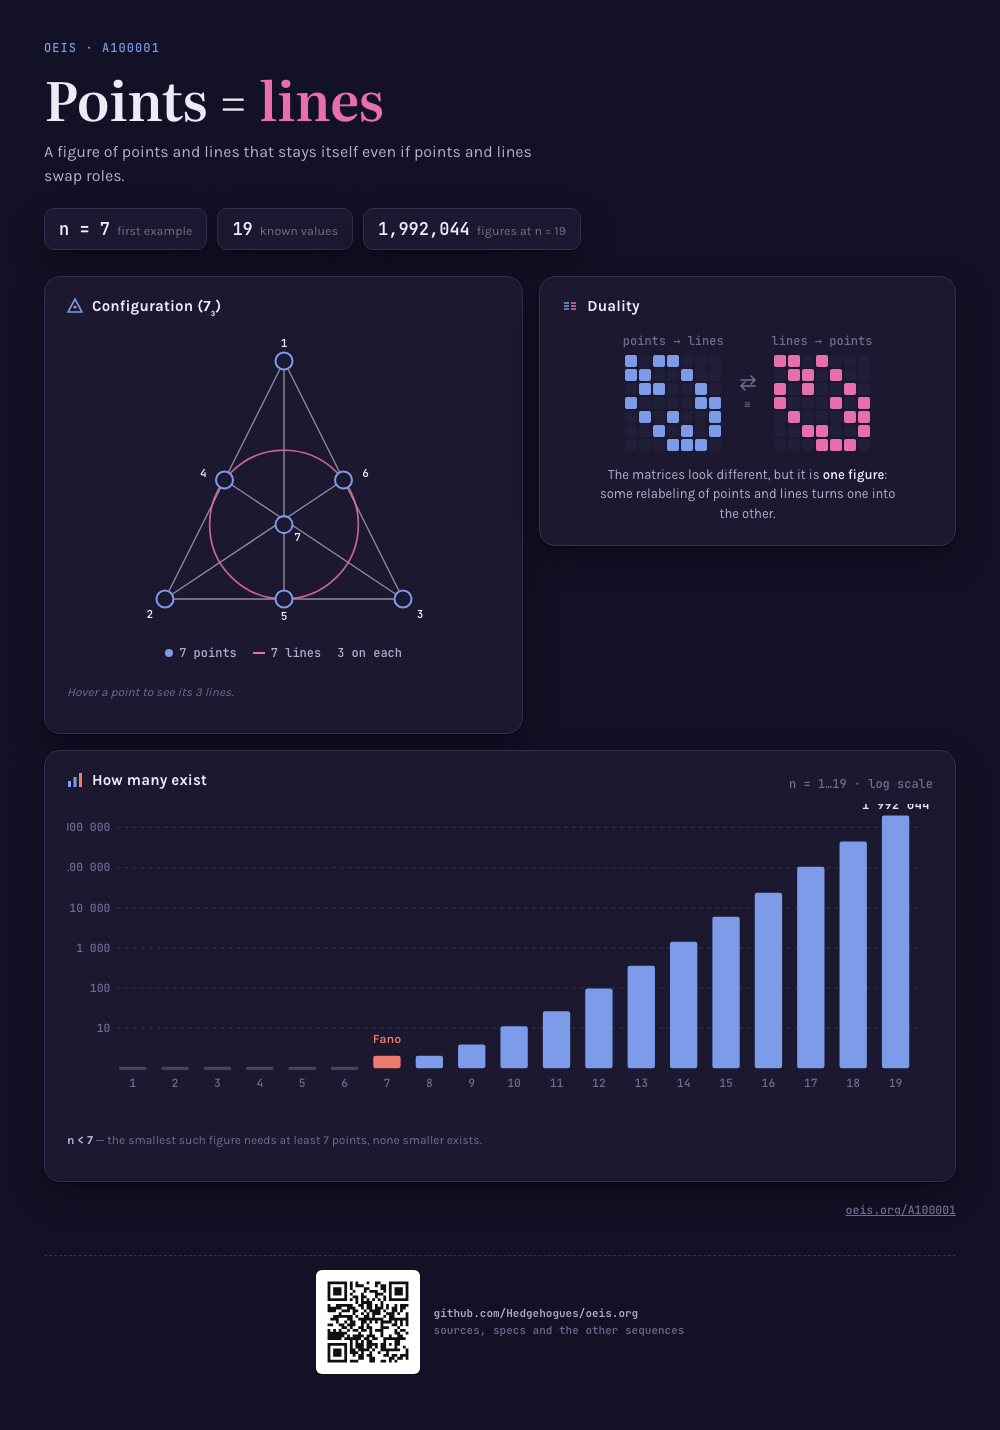
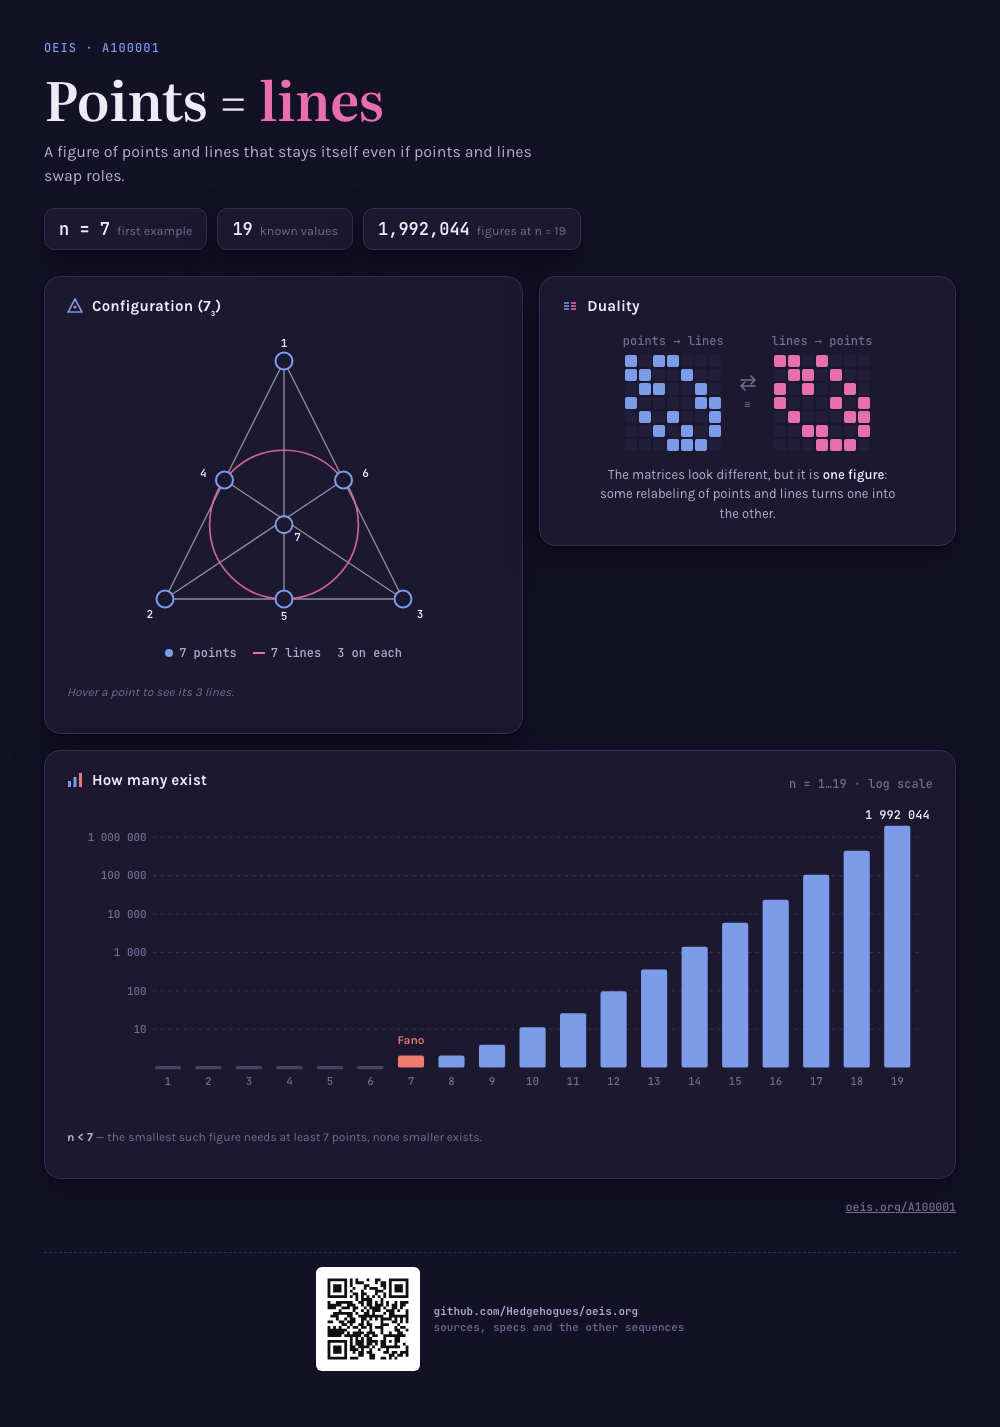
Fix A100001's clipped chart labels; add principle 18 + verify/svg-bounds.mjs
Auditing every currently published picture in the repo found one real, previously unnoticed
defect: A100001's "How many exist" log-scale bar chart clipped its topmost axis label
("1 000 000" read as "000 000") and its topmost value callout ("1 992 044" read as garbled
digits) against the SVG's own viewBox -- present in every capture of this page since it was
built, including the one already committed. Confirmed by patching the label position in a
live page and comparing screenshots; the source coordinates alone (y="4", x="38") look
ordinary and gave no hint.

- Widened #growth's viewBox ("0 0 760 268" -> "-35 -10 795 278") to reveal the existing
  coordinates rather than moving the labels further from the edges they were clipped against.
- memory-bank/verify/svg-bounds.mjs: renders each page and measures every <text> element's
  real rendered bounding box against its SVG's own box; verified it reproduces the original
  failure when the viewBox revert is reapplied.
- Documented as principle 18, wired into verify/all.mjs.

diff --git a/memory-bank/visualizations/A100001/viz.html b/memory-bank/visualizations/A100001/viz.html
@@ -415,7 +415,7 @@
         <div class="hint">n = 1…19 · log scale</div>
       </div>
       <div class="chart-scroll">
-        <svg id="growth" viewBox="0 0 760 268">
+        <svg id="growth" viewBox="-35 -10 795 278">
           <!-- reference gridlines -->
           <line class="grid-line" x1="44" y1="196.75" x2="750" y2="196.75"/><text class="grid-label" x="38" y="200" text-anchor="end">10</text>
           <line class="grid-line" x1="44" y1="161.5" x2="750" y2="161.5"/><text class="grid-label" x="38" y="165" text-anchor="end">100</text>

diff --git a/.claude/rules/visualization-principles.md b/.claude/rules/visualization-principles.md
@@ -292,11 +292,34 @@ by memory, not by a check" gap principle 9's own history already names, just nev
   measured them. `A000001` and `A000003` each had one legend over the limit too (28 and 47 words),
   found only because the same check ran against every page, not just the one being edited.
 
+## 18. An SVG's own viewBox needs margin for text, not just for the shapes
+
+An SVG's outermost element clips anything outside its `viewBox` by default. A bar's rectangle is
+usually sized well inside that box on purpose, so nobody notices the box itself has zero margin —
+until a text label sits close enough to an edge that its font ascender, or the width of a
+`text-anchor="end"` string, crosses that edge. Nothing about this shows up by reading the
+coordinates: `y="4"` and `x="38"` both look like ordinary, small, reasonable numbers on their own.
+
+- MUST: a `viewBox` used for any chart carrying `<text>` includes enough margin on every edge a
+  label can approach — sized from the actual rendered font metrics and string width, not guessed.
+- MUST NOT: fix a clipped label by moving the text further from the edge it's clipped against —
+  that only shrinks the chart's usable plotting area for the same reason the original margin was
+  missing. Widen the `viewBox` itself (expand it around the existing coordinates, which are
+  otherwise untouched) so the plotted content keeps its position and scale.
+- Precedent: `A100001`'s `#growth` log-scale bar chart (`viewBox="0 0 760 268"`) placed its topmost
+  value label at `y="4"` and its axis labels at `x="38"` with `text-anchor="end"` — both look
+  ordinary in the source. Rendered, the value label's ascender and roughly half of the widest axis
+  label ("1 000 000") fell outside the box and were silently cut, on every capture of this page
+  since it was built, including the one already committed. Found only by patching the label's `y`
+  in a live page and comparing screenshots by eye — nothing else in this catalog renders a page and
+  measures real layout. Fixed by widening the `viewBox` to `"-35 -10 795 278"`, which reveals the
+  same coordinates rather than moving them.
+
 Trigger: any request to explain an OEIS sequence with a picture — a new device record, a
 per-sequence page, an edit to an existing visualization; an invocation of the `explain-sequence`
 skill; adding or editing any `[device::*]` record.
 Mechanization: `node memory-bank/verify/all.mjs` exits non-zero on a violation of principles 9, 11,
-14, 15, 16 and 17, and every one of those checks was proved by reintroducing the exact fault it
+14, 15, 16, 17 and 18, and every one of those checks was proved by reintroducing the exact fault it
 exists for rather than merely written:
 
 | # | check | the fault it was tested against |
@@ -307,6 +330,7 @@ exists for rather than merely written:
 | 15 | `verify/pages.mjs` | restoring the old teal accent and a different page ground |
 | 16 | `verify/qr.mjs` | re-theming the QR and shrinking it, then re-capturing |
 | 17 | `verify/captions.mjs` | a legend or step caption growing past its word budget, page over page, unnoticed |
+| 18 | `verify/svg-bounds.mjs` | restoring `A100001`'s original `viewBox`, which silently clips its topmost axis and value labels again |
 
 The rest stay judgement calls, and saying so is the point of listing them: principles 1, 2, 7 and
 12 are about whether a decomposition is honest, which no script decides — principle 17 mechanizes
